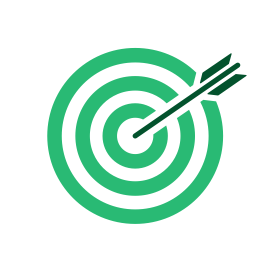
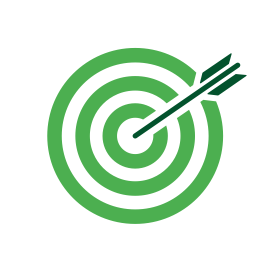
update pictures on demo#index

Changed region(s): [[0.2657, 0.2657, 0.738, 0.738], [0.1771, 0.1771, 0.8266, 0.8266]]

diff --git a/app/assets/stylesheets/application.scss b/app/assets/stylesheets/application.scss
@@ -335,10 +335,6 @@ select option:hover {
   font-weight: bold;
 }
 
-.overview-row img {
-  opacity: 0.8 !important;
-}
-
 .index {
   display: flex;
   flex-direction: row;
